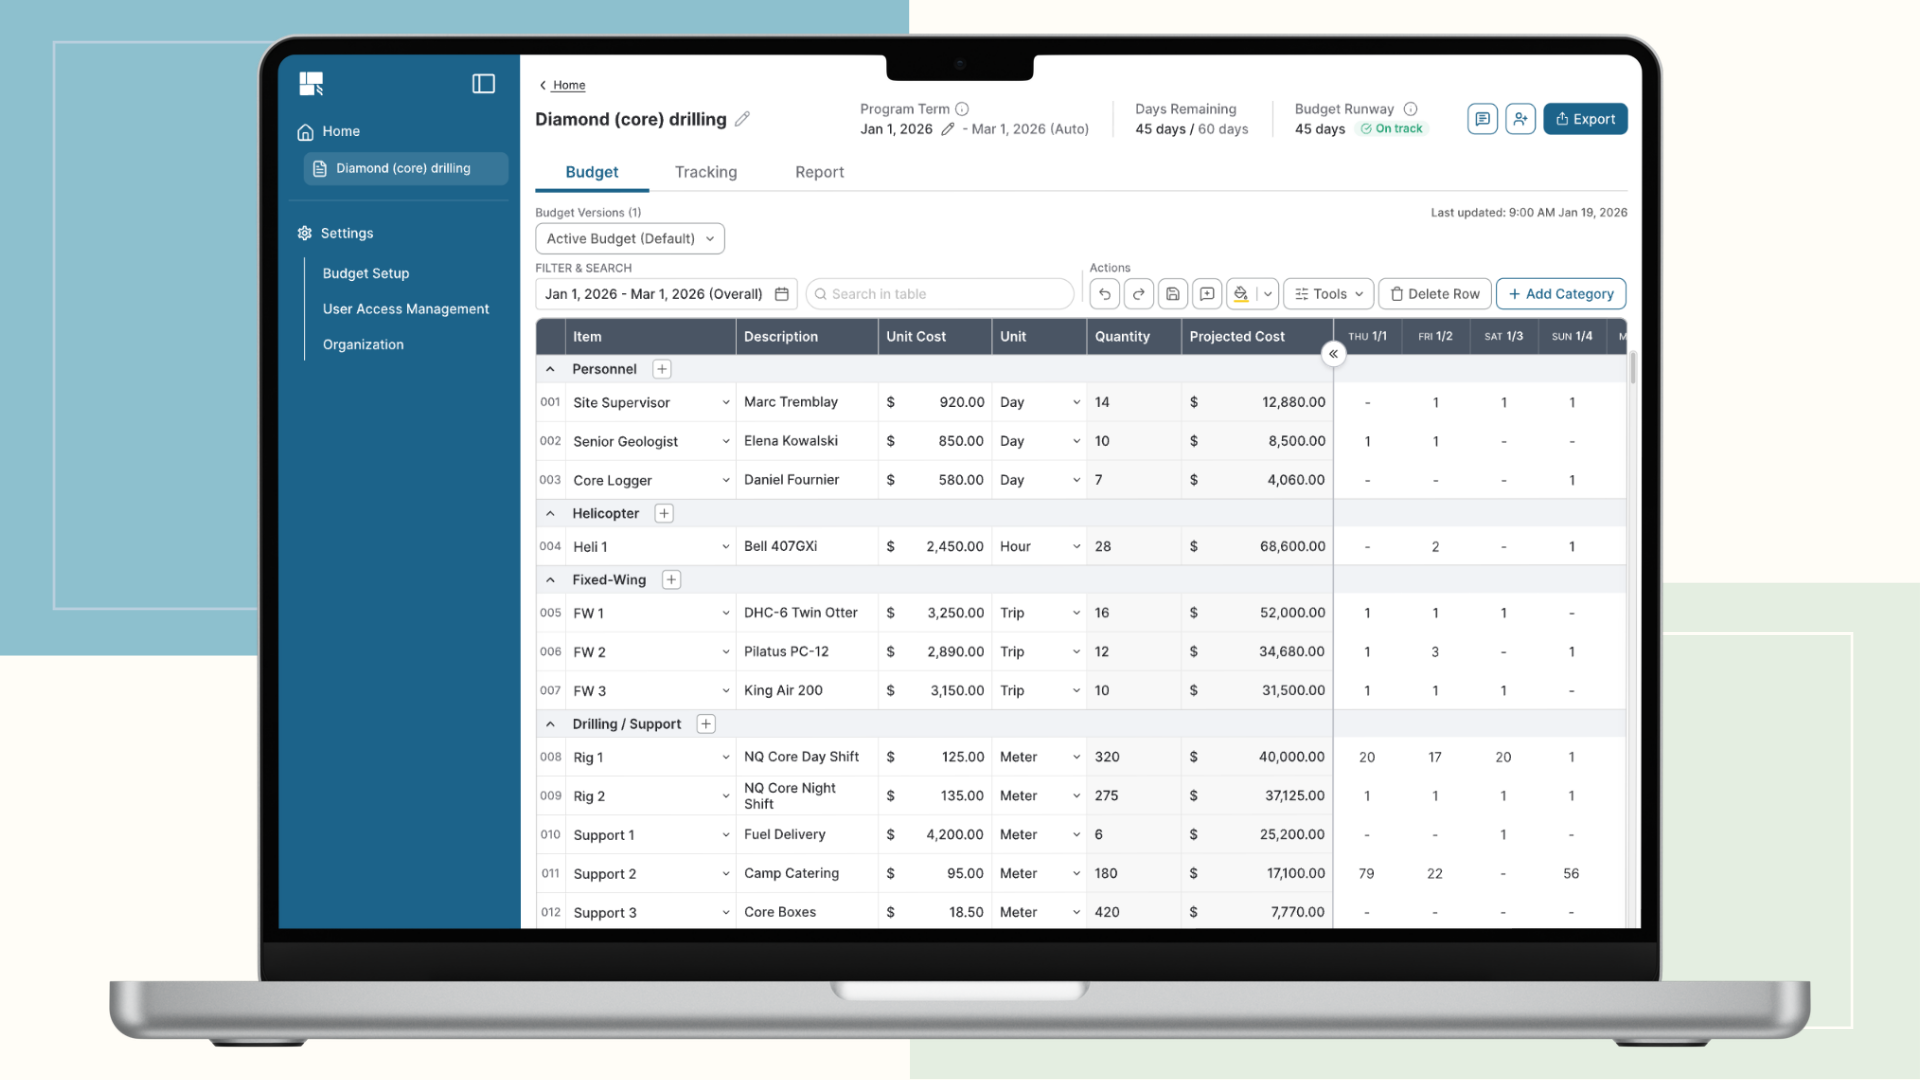
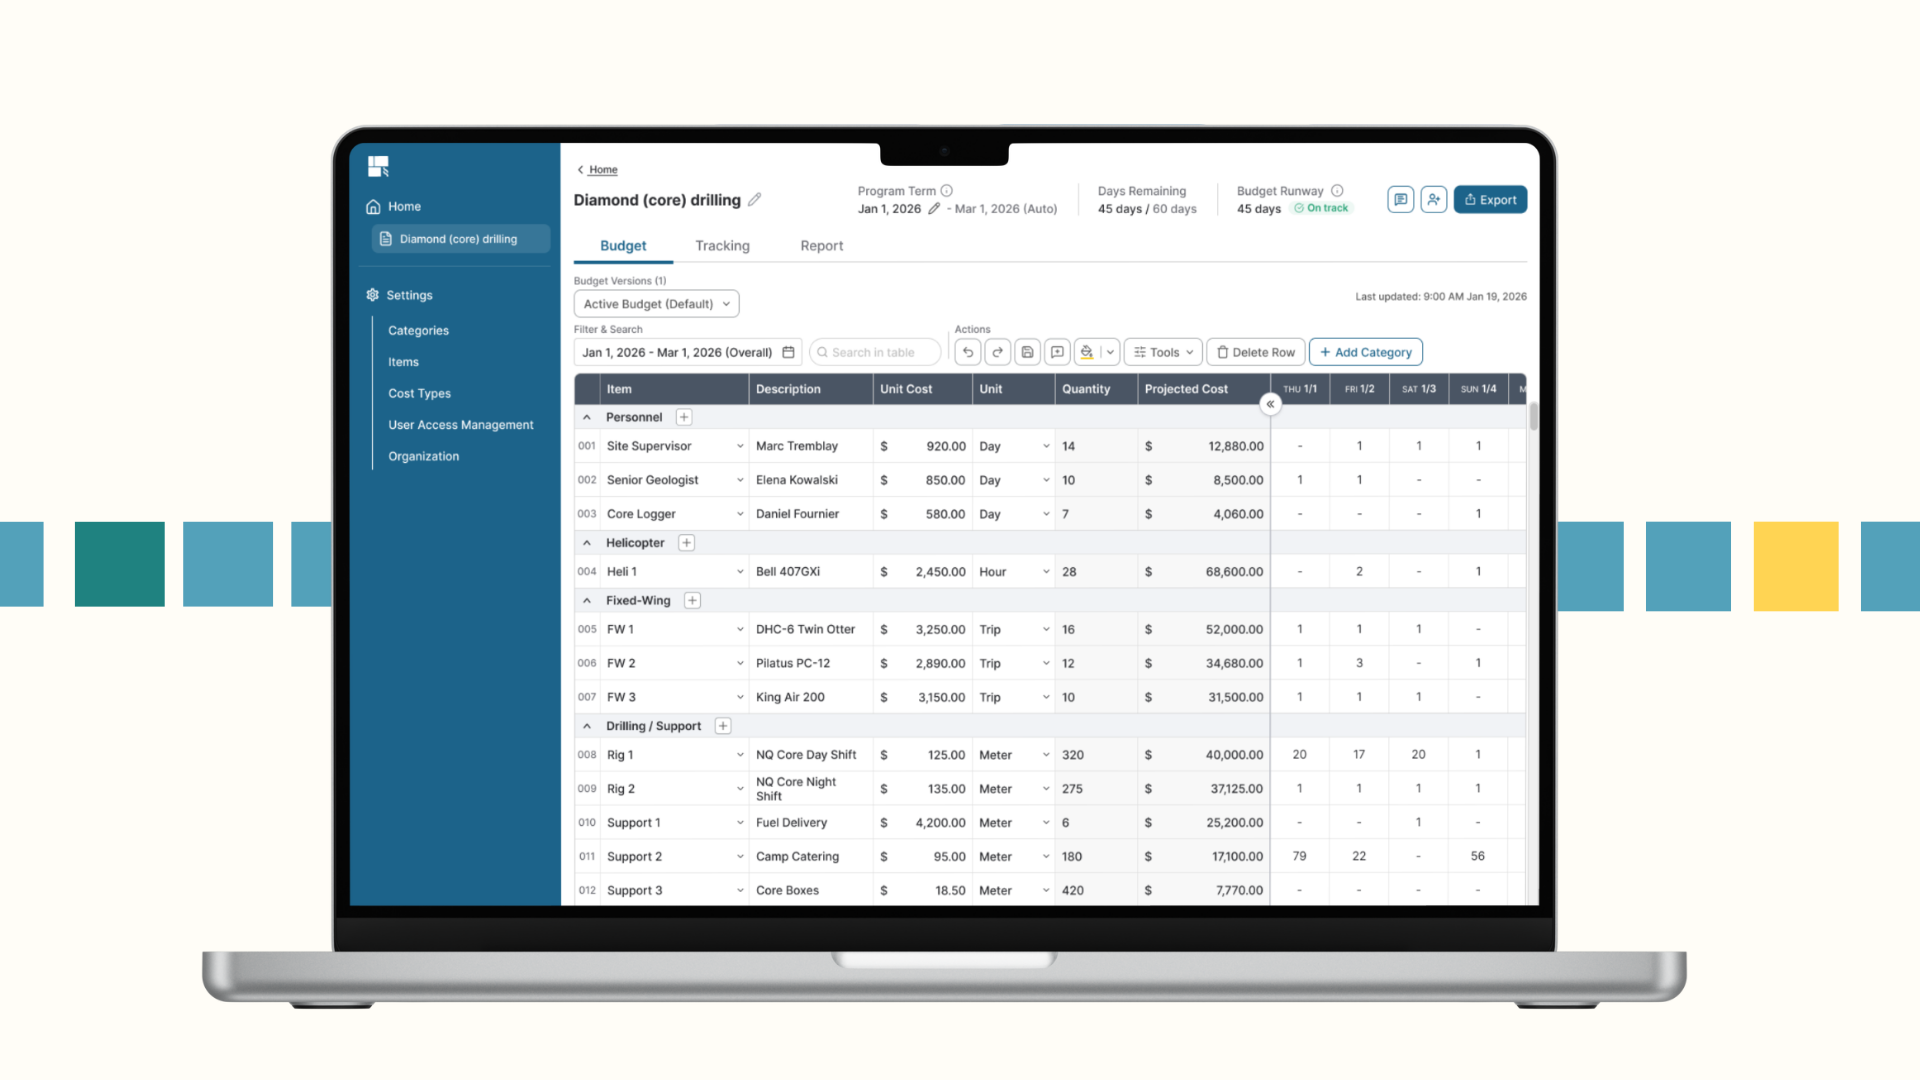
update: improvement3

diff --git a/src/pages/works/MiningProject.jsx b/src/pages/works/MiningProject.jsx
@@ -168,7 +168,7 @@ const content = {
         summary:
           "慣れ親しんだ操作性を踏襲することでユーザーの学習コストを極小化し、予算管理プロセス全体の効率化を実現しました。",
         background:
-          "参入時点の仕様では、プロジェクト（プログラム）作成時に設定されたプログラム期間や採掘場所などの条件に基づき、システム側で予算項目の作成および試算が自動で行われる仕組みになっていました。",
+          "参入時の初期仕様では、ユーザーがプロジェクト作成時に指定した「期間」や「採掘場所」等の条件に基づき、システムが予算作成画面にて、予算項目の自動作成と初期試算を行う仕様になっていました。",
         sections: [
           {
             theme: "before",
@@ -222,8 +222,8 @@ const content = {
                 description:
                   "実際の作業状況を正しく把握するため、日常的なExcel操作の録画データを分析しました。ヒアリングだけでは見えにくい潜在的な課題や操作の癖を調べました。 \n 以下が分析結果の一部です。",
                 items: [
-                  "新規予算の作成時は既存のExcelシートを再利用する運用が定着しており、それに伴う数式・関数エラーが頻発していた。",
-                  "作成した予算データは、進捗共有のため高頻度でレポート（PDF/Excel等）としてエクスポートされていた。",
+                  "新規予算の作成時は既存のExcelシートを再利用する運用が定着しており、それに伴う数式・関数エラーが頻発していた",
+                  "作成した予算データは、進捗共有のため高頻度でレポート（PDF/Excel等）としてエクスポートされていた",
                 ],
               },
             ],
@@ -299,14 +299,14 @@ const content = {
         summary:
           "既存の画面構成や操作感を維持したまま、新機能を組み込みました。",
         background:
-          "クライアントからの要望を受け、予算の試算機能を追加することになりました。すでに主要なUI構造が確定している段階であったため、既存のUIコンポーネントやレイアウトの整合性を壊すことなく、新機能を自然に組み込む設計を行いました。",
+          "クライアントからの要望を受け、予算の試算機能を追加することになりました。\n既に主要なUI構造が確定している段階であったため、既存のUIコンポーネントやレイアウトの整合性を壊すことなく、新機能を自然に組み込む設計を意識しました。",
         sections: [
           {
             theme: "hearing",
             label: "ヒアリング",
             caption:
-              "クライアントへのヒアリングを通して以下のことがわかりました。",
-            text: "クライアントへのヒアリングを通じて、以下の課題およびニーズが浮き彫りとなりました。",
+              "クライアントへのヒアリングを通じて、以下の課題およびニーズが浮き彫りとなりました。",
+            // text: "クライアントへのヒアリングを通じて、以下の課題およびニーズが浮き彫りとなりました。",
             list: {
               marker: "dot",
               items: [
@@ -323,9 +323,10 @@ const content = {
           {
             theme: "process",
             label: "ユーザーフローの作成",
+            layout: "row",
             image: "/mining/user-story.png",
             alt: "ユーザーフローの画像",
-            text: "ユーザーフローを作成して多様な操作パターン（試算データの保存・破棄・本番反映）を可視化し、チーム内の認識共有と機能スコープの定義をスムーズに行いました。",
+            text: "ユーザーフローを作成することで、多様な操作パターン（試算データの保存・破棄・本番反映）を可視化し、チーム内の認識共有と機能スコープの定義をスムーズに行いました。",
           },
           {
             theme: "after",
@@ -338,7 +339,7 @@ const content = {
               heading: "主要機能とUIの工夫",
               items: [
                 {
-                  text: "「Budget versions」ドロップダウンにより、新規試算の作成・表示・本番予算の切り替えを一元化しました。",
+                  text: "頻繁に行われるシミュレーション業務に対応するため、『Budget versions』ドロップダウンを配置。新規試算の作成から過去バージョンの参照、本番予算への反映までを完結可能にしました。",
                 },
                 {
                   text: "新規試算作成時は、適用中の予算データを初期値として自動継承するようにしました。",
@@ -347,7 +348,7 @@ const content = {
                   text: "試算モードであることを直感的に識別できるよう、画面全体のカラーテーマを最適化しました。",
                 },
                 {
-                  text: "試算時には、適用中の予算との合計差分を常時表示し、画面遷移なしで即座に数値比較が可能です。",
+                  text: "試算時には、適用中の予算との合計差分を常時表示し、画面遷移なしで即座に数値比較できる仕様にしました。",
                 },
               ],
             },
@@ -684,6 +685,7 @@ const content = {
           {
             theme: "process",
             label: "Creating a User Flow",
+            layout: "row",
             image: "/mining/user-story.png",
             alt: "Image of the user flow",
             text: "Created a user flow to visualize the various interaction patterns (save, discard, and apply to the actual budget), which helped the team build a shared understanding and define the feature scope smoothly.",
@@ -755,9 +757,9 @@ const MiningProject = () => {
   }));
 
   const [openSections, setOpenSections] = useState({
-    1: false,
-    2: false,
-    3: false,
+    1: true,
+    2: true,
+    3: true,
   });
   const toggleSection = (id) => {
     setOpenSections((prev) => ({ ...prev, [id]: !prev[id] }));

diff --git a/src/pages/works/mining/CaseSection.jsx b/src/pages/works/mining/CaseSection.jsx
@@ -3,6 +3,7 @@ import { useLanguage } from "../../../context/LanguageContext";
 import { localizeImage } from "../../../utils/localizeImage";
 import { caseThemes } from "./caseThemes";
 import MarkerList from "./MarkerList";
+import DotList from "./DotList";
 
 const toParagraphs = (text) => (Array.isArray(text) ? text : [text]);
 
@@ -20,7 +21,7 @@ export function CaseBox({
   return (
     <div className="relative pt-2">
       <div
-        className={`relative flex flex-col gap-12 pt-8 pb-6 pr-0 md:pr-6 ${
+        className={`relative flex flex-col gap-6 pt-8 pb-6 pr-0 md:pr-6 ${
           indent ? "pl-4 md:pl-8" : ""
         }`}
       >
@@ -168,22 +169,7 @@ function CaseSection({ section, line }) {
                     </p>
                   )}
                 </div>
-                <ul className="flex flex-col gap-1.5 pl-4">
-                  {study.items.map((item, itemIndex) => (
-                    <li key={itemIndex} className="flex gap-3 items-start">
-                      <img
-                        src="/mining/list-dot.svg"
-                        alt=""
-                        width="8"
-                        height="26.25"
-                        className="shrink-0"
-                      />
-                      <p className="flex-1 min-w-0 text-[15px] leading-[1.75]">
-                        {item}
-                      </p>
-                    </li>
-                  ))}
-                </ul>
+                <DotList items={study.items} />
                 {study.insight && (
                   <div className="flex flex-col items-start gap-3">
                     {study.insightLabel && (
@@ -252,12 +238,16 @@ function CaseSection({ section, line }) {
           )}
         </div>
       )}
-      {section.list && (
-        <MarkerList
-          {...section.list}
-          color={colors.accent}
-          dividerColor={colors.divider}
-        />
+      {section.list?.marker === "dot" ? (
+        <DotList items={section.list.items.map((item) => item.text)} />
+      ) : (
+        section.list && (
+          <MarkerList
+            {...section.list}
+            color={colors.accent}
+            dividerColor={colors.divider}
+          />
+        )
       )}
       {section.footnote && (
         <p className="-mt-6 text-xs leading-normal">{section.footnote}</p>

diff --git a/src/pages/works/mining/MarkerList.jsx b/src/pages/works/mining/MarkerList.jsx
@@ -36,7 +36,11 @@ function MarkerList({
     <div className="flex flex-col gap-2">
       {heading && (
         <div className="flex flex-wrap items-center gap-x-2.5 leading-normal">
-          <h4 className={`${small ? "text-lg" : "text-xl"} font-bold text-[#2e211a]`}>{heading}</h4>
+          <h4
+            className={`${small ? "text-lg" : "text-xl"} font-bold text-[#2e211a]`}
+          >
+            {heading}
+          </h4>
           {note && <span className="text-xs text-[#7a6a5f]">{note}</span>}
         </div>
       )}
@@ -51,13 +55,13 @@ function MarkerList({
             <div className="flex flex-col gap-1 min-w-0">
               {item.title && (
                 <p
-                  className={`${small ? "text-sm" : ""} font-bold leading-normal text-[#2e211a]`}
+                  className={`${small ? "text-base" : ""} font-bold leading-normal`}
                 >
                   {item.title}
                 </p>
               )}
               <p
-                className={`${small ? "text-sm" : ""} leading-[1.8] whitespace-pre-line text-[#5a4a40]`}
+                className={`${small ? "text-base" : ""} leading-[1.8] whitespace-pre-line`}
               >
                 {item.text}
               </p>

diff --git a/src/components/Accordion.jsx b/src/components/Accordion.jsx
@@ -10,7 +10,7 @@ function Accordion({ title, summary, isOpen, onToggle, children }) {
         className="group w-full flex justify-between items-center gap-4 cursor-pointer"
       >
         <div className="flex flex-col items-start justify-start transition-opacity duration-200 group-hover:opacity-90">
-          <h2 className="text-lg md:text-xl font-semibold">{title}</h2>
+          <h2 className="text-lg md:text-lg font-semibold">{title}</h2>
           <p className="text-gray-600 text-sm p-1 text-left">{summary}</p>
         </div>
         <span className="flex items-center justify-center w-8 h-8 rounded-full bg-[#5C554C] shrink-0 transition-opacity duration-200 group-hover:opacity-90">

diff --git a/src/pages/works/mining/DotList.jsx b/src/pages/works/mining/DotList.jsx
@@ -1,0 +1,21 @@
+// Simple bulleted list of strings, indented under its heading.
+function DotList({ items }) {
+  return (
+    <ul className="flex flex-col gap-1.5 pl-4">
+      {items.map((item, index) => (
+        <li key={index} className="flex gap-3 items-start">
+          <img
+            src="/mining/list-dot.svg"
+            alt=""
+            width="8"
+            height="26.25"
+            className="shrink-0"
+          />
+          <p className="flex-1 min-w-0 text-[15px] leading-[1.75]">{item}</p>
+        </li>
+      ))}
+    </ul>
+  );
+}
+
+export default DotList;

diff --git a/src/components/Footer.jsx b/src/components/Footer.jsx
@@ -1,7 +1,7 @@
 function Footer() {
   return (
     <footer className="flex items-center justify-center py-8">
-      <p className="text-[11px] font-semibold text-text-sub">
+      <p className="text-[11px] text-text-sub">
         All Rights Reserved 2026 © Risa Yamamoto
       </p>
     </footer>
